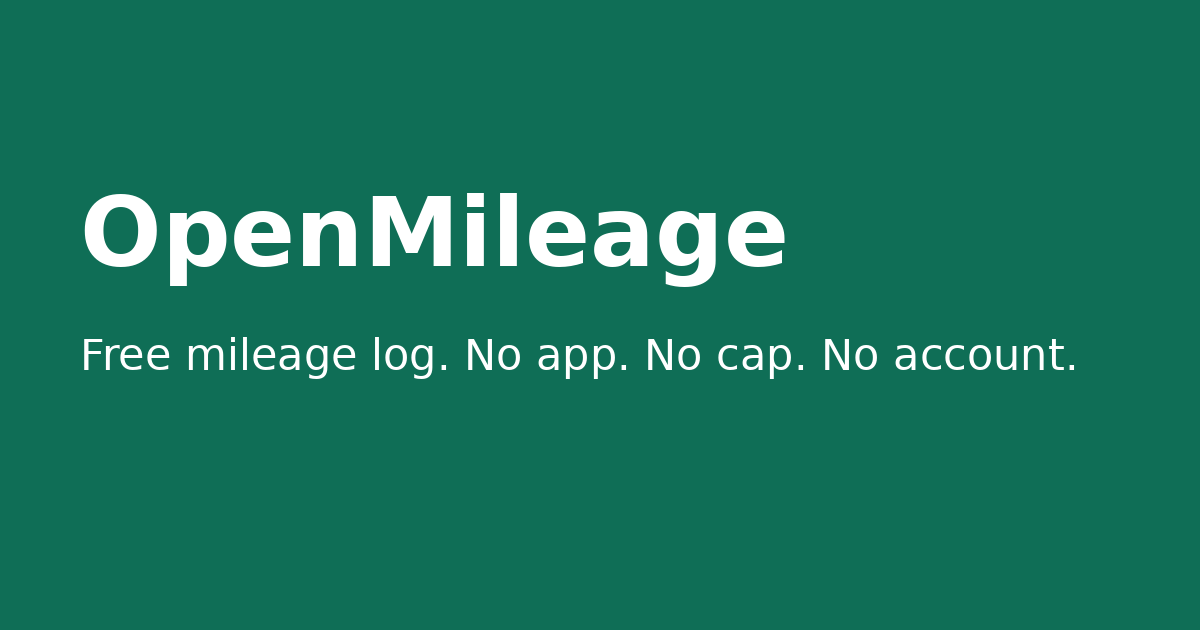
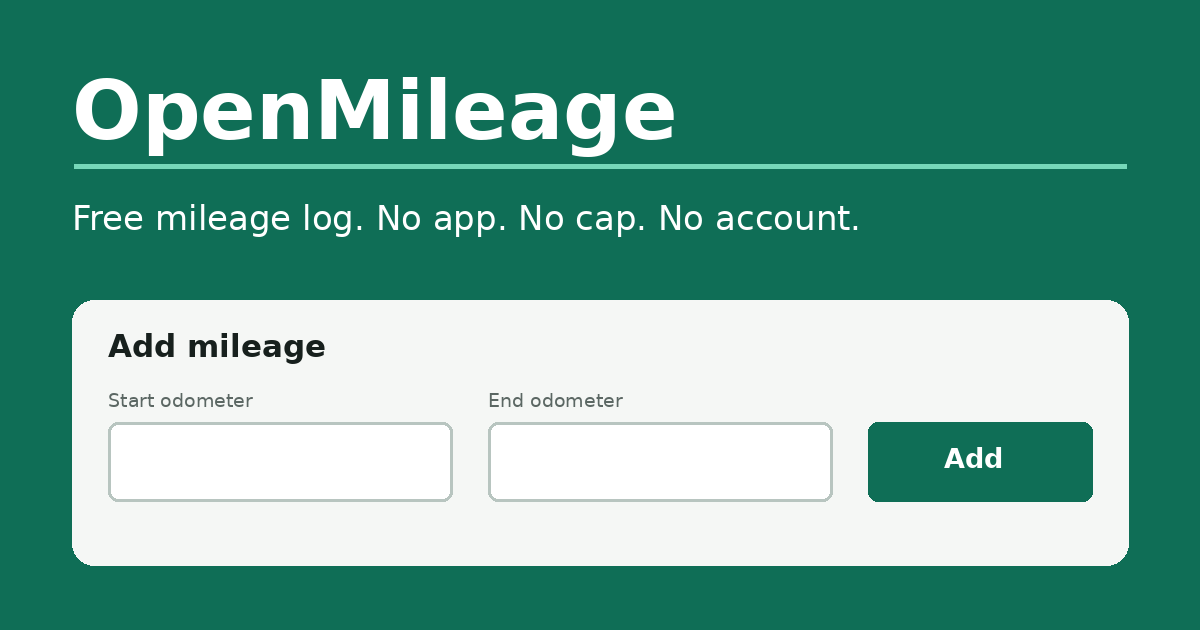
Fix restore, units, CSV tiers, tax-year view, import dates

diff --git a/app.js b/app.js
@@ -1,105 +1,37 @@
 "use strict";
-
-const PRO_URL = "";
-const API = "https://drezar.site/api/x";
-const STORE_KEY = "openmileage-data-v1";
-const defaultRegion = navigator.language.toLowerCase() === "en-gb" ? "UK" : "US";
-const state = loadState();
-let mode = "shift";
-let pendingImport = [];
-
-const $ = id => document.getElementById(id);
-const todayISO = () => new Date().toLocaleDateString("en-CA");
-const number = value => Number.parseFloat(value);
-const tidy = value => Number(value || 0).toLocaleString(undefined, {maximumFractionDigits: 2});
-const escapeHtml = value => String(value ?? "").replace(/[&<>"']/g, c => ({"&":"&amp;","<":"&lt;",">":"&gt;",'"':"&quot;","'":"&#39;"})[c]);
-
-function loadState() {
-  try {
-    const saved = JSON.parse(localStorage.getItem(STORE_KEY));
-    return {region: defaultRegion, units: "miles", vehicle: "My car", entries: [], backup: {}, ...saved};
-  } catch { return {region: defaultRegion, units: "miles", vehicle: "My car", entries: [], backup: {}}; }
-}
-function saveState() { localStorage.setItem(STORE_KEY, JSON.stringify(state)); }
-function taxBounds(date = new Date(), region = state.region) {
-  if (region === "US") { const y = date.getFullYear(); return [new Date(y,0,1), new Date(y,11,31,23,59,59)]; }
-  const y = date.getMonth() > 3 || (date.getMonth() === 3 && date.getDate() >= 6) ? date.getFullYear() : date.getFullYear()-1;
-  return [new Date(y,3,6), new Date(y+1,3,5,23,59,59)];
-}
-function entryDate(entry) { return new Date(entry.date + "T12:00:00"); }
-function inRange(entry, start, end) { const d=entryDate(entry); return d>=start && d<=end; }
-function milesOf(entry) { return state.units === "km" ? entry.distance / 1.609344 : entry.distance; }
-function displayDistance(entry) { return state.units === "km" ? entry.distance : entry.distance; }
-function toMiles(distance) { return state.units === "km" ? distance / 1.609344 : distance; }
-
-function rateFor(entry, region = state.region) {
-  const d = entryDate(entry);
-  if (region === "US") return d >= new Date(2026,0,1) ? .725 : .70;
-  return d >= new Date(2026,3,6) ? .55 : .45;
-}
-function allowance(entries, region = state.region) {
-  if (region === "US") return entries.reduce((sum,e)=>sum + milesOf(e)*rateFor(e,"US"),0);
-  const ordered=[...entries].sort((a,b)=>a.date.localeCompare(b.date)); let total=0, cumulative=0;
-  for (const e of ordered) { const miles=milesOf(e); const first=Math.max(0,Math.min(miles,10000-cumulative)); total += first*rateFor(e,"UK") + (miles-first)*.25; cumulative+=miles; }
-  return total;
-}
-
-function renderAll() {
-  $("region").value=state.region; $("units").value=state.units; $("vehicle").value=state.vehicle;
-  syncPills();
-  document.querySelectorAll(".unit-label").forEach(el=>el.textContent=state.units);
-  const [start,end]=taxBounds(); $("tax-year-label").textContent = state.region === "UK" ? `${start.toLocaleDateString(undefined,{day:"numeric",month:"short",year:"numeric"})} to ${end.toLocaleDateString(undefined,{day:"numeric",month:"short",year:"numeric"})}` : String(start.getFullYear());
-  renderTotals(); renderLog(); renderBackup();
-}
-function renderTotals() {
-  const now=new Date(), dayStart=new Date(now.getFullYear(),now.getMonth(),now.getDate()), weekStart=new Date(dayStart); weekStart.setDate(dayStart.getDate()-((dayStart.getDay()+6)%7));
-  const monthStart=new Date(now.getFullYear(),now.getMonth(),1), [yearStart,yearEnd]=taxBounds(now);
-  const sum=(start,end=now)=>state.entries.filter(e=>inRange(e,start,end)).reduce((s,e)=>s+displayDistance(e),0);
-  $("total-today").textContent=`${tidy(sum(dayStart))} ${state.units}`; $("total-week").textContent=`${tidy(sum(weekStart))} ${state.units}`;
-  $("total-month").textContent=`${tidy(sum(monthStart))} ${state.units}`;
-  const yearly=state.entries.filter(e=>inRange(e,yearStart,yearEnd)); $("total-year").textContent=`${tidy(yearly.reduce((s,e)=>s+displayDistance(e),0))} ${state.units}`;
-  const value=allowance(yearly); $("deduction-value").textContent = state.region === "US" ? value.toLocaleString("en-US",{style:"currency",currency:"USD"}) : value.toLocaleString("en-GB",{style:"currency",currency:"GBP"});
-  if(state.region==="US") { $("rate-line").textContent="IRS business rate: 72.5¢/mile for 2026 entries; 70¢/mile for 2025."; $("rate-source").href="https://www.irs.gov/newsroom/irs-sets-2026-business-standard-mileage-rate-at-725-cents-per-mile-up-25-cents"; }
-  else { $("rate-line").textContent="HMRC rate: 55p/mile for the first 10,000 from 6 Apr 2026, then 25p (previously 45p/25p)."; $("rate-source").href="https://www.gov.uk/government/publications/increase-to-approved-mileage-allowance-payments-amaps-and-self-employed-simplified-mileage-rates/increasing-mileage-rates"; }
-}
-function filteredEntries() { const month=$("month-filter").value; return state.entries.filter(e=>!month||e.date.startsWith(month)).sort((a,b)=>b.date.localeCompare(a.date)||b.created.localeCompare(a.created)); }
-function renderLog() {
-  const rows=filteredEntries(); $("entry-count").textContent=`${rows.length} ${rows.length===1?"entry":"entries"}`; $("empty-log").classList.toggle("hidden",rows.length>0); $("log-body").innerHTML=rows.map(e=>`<tr data-id="${e.id}"><td>${escapeHtml(e.date)}</td><td>${e.start==null?"—":tidy(e.start)}</td><td>${e.end==null?"—":tidy(e.end)}</td><td>${tidy(displayDistance(e))}</td><td>${escapeHtml(e.purpose)}</td><td class="note-cell">${escapeHtml(e.note)}</td><td class="actions"><div class="row-actions"><button data-action="edit">Edit</button><button data-action="delete" class="delete">Delete</button></div></td></tr>`).join("");
-}
-function addEntry(event) {
-  event.preventDefault(); $("entry-error").textContent=""; const date=$("entry-date").value, purpose=$("purpose").value, note=$("note").value.trim(); let start=null,end=null,distance;
-  if(mode==="shift") { start=number($("start-odo").value); end=number($("end-odo").value); if(!Number.isFinite(start)||!Number.isFinite(end)||end<start){$("entry-error").textContent="End odometer must be equal to or greater than start.";return;} distance=end-start; state.lastEnd=end; }
-  else { distance=number($("trip-miles").value); if(!Number.isFinite(distance)||distance<=0){$("entry-error").textContent="Enter a distance greater than zero.";return;} }
-  state.entries.push({id:crypto.randomUUID(),date,start,end,distance,purpose,note,created:new Date().toISOString()}); saveState(); renderAll();
-  $("confirmation").textContent=`Added ${tidy(distance)} ${state.units}.`; $("note").value=""; $("end-odo").value=""; $("trip-miles").value=""; if(state.lastEnd!=null) $("start-odo").value=state.lastEnd; analytics("entry_added");
-}
-function setMode(next) { mode=next; document.querySelectorAll("[data-mode]").forEach(b=>b.classList.toggle("active",b.dataset.mode===mode)); document.querySelectorAll(".shift-field").forEach(e=>e.classList.toggle("hidden",mode!=="shift")); document.querySelectorAll(".trip-field").forEach(e=>e.classList.toggle("hidden",mode!=="trip")); $("start-odo").required=mode==="shift"; $("end-odo").required=mode==="shift"; $("trip-miles").required=mode==="trip"; }
-function editEntry(id) { const e=state.entries.find(x=>x.id===id); if(!e)return; const date=prompt("Date (YYYY-MM-DD)",e.date); if(date===null)return; const distance=number(prompt(`Distance (${state.units})`,e.distance)); if(!/^\d{4}-\d{2}-\d{2}$/.test(date)||!Number.isFinite(distance)||distance<0){alert("Enter a valid date and distance.");return;} e.date=date;e.distance=distance;e.purpose=prompt("Purpose",e.purpose)??e.purpose;e.note=prompt("Note",e.note)??e.note;saveState();renderAll(); }
-
-function csvEscape(v){const s=String(v??"");return /[",\n]/.test(s)?`"${s.replace(/"/g,'""')}"`:s;}
-function exportEntries(){const [s,e]=taxBounds();return state.entries.filter(x=>$("export-period").value==="all"||inRange(x,s,e)).sort((a,b)=>a.date.localeCompare(b.date));}
-function csvText(entries){const head=["Date","Vehicle","Start odometer","End odometer","Miles","Purpose","Note","Rate","Value"];const rows=entries.map(e=>{const miles=milesOf(e),rate=rateFor(e);return[e.date,state.vehicle,e.start??"",e.end??"",miles.toFixed(2),e.purpose,e.note,rate.toFixed(3),(miles*rate).toFixed(2)]});return [head,...rows].map(r=>r.map(csvEscape).join(",")).join("\r\n");}
-function downloadCSV(){const blob=new Blob([csvText(exportEntries())],{type:"text/csv;charset=utf-8"}),a=document.createElement("a");a.href=URL.createObjectURL(blob);a.download="openmileage.csv";a.click();setTimeout(()=>URL.revokeObjectURL(a.href),1000);analytics("export_csv");}
-function parseCSV(text){const rows=[];let row=[],field="",quoted=false;for(let i=0;i<text.length;i++){const c=text[i];if(quoted){if(c==='"'&&text[i+1]==='"'){field+='"';i++;}else if(c==='"')quoted=false;else field+=c;}else if(c==='"')quoted=true;else if(c===','){row.push(field);field="";}else if(c==='\n'){row.push(field.replace(/\r$/, ""));rows.push(row);row=[];field="";}else field+=c;}row.push(field);if(row.some(Boolean))rows.push(row);return rows;}
-function normalizedHeader(h){return h.toLowerCase().replace(/[^a-z0-9]/g,"");}
-function prepareImport(text){const rows=parseCSV(text);if(rows.length<2)return[];const heads=rows[0].map(normalizedHeader);const idx=(...names)=>heads.findIndex(h=>names.some(n=>h.includes(n)));const di=idx("date"),mi=idx("miles","distance","kilometres","kilometers"),si=idx("startodometer","startmileage"),ei=idx("endodometer","endmileage"),pi=idx("purpose","category"),ni=idx("note","description");return rows.slice(1).map(r=>{const start=number(r[si]),end=number(r[ei]);let distance=number(r[mi]);if(!Number.isFinite(distance)&&Number.isFinite(start)&&Number.isFinite(end))distance=end-start;let date=r[di];const parsed=new Date(date);if(!/^\d{4}-\d{2}-\d{2}$/.test(date||"")&&!isNaN(parsed))date=parsed.toLocaleDateString("en-CA");if(!date||!Number.isFinite(distance)||distance<0)return null;return{id:crypto.randomUUID(),date,start:Number.isFinite(start)?start:null,end:Number.isFinite(end)?end:null,distance,purpose:r[pi]||"Other",note:r[ni]||"",created:new Date().toISOString()};}).filter(Boolean);}
-
-async function backup(){const email=$("backup-email").value.trim(),code=$("restore-code").value.trim();if(!email){$("backup-result").textContent="Enter your email.";return;}$("backup-button").disabled=true;try{const payload={email,data:{...state,backup:undefined}};if(code)payload.code=code;const res=await fetch(`${API}/backup`,{method:"POST",headers:{"Content-Type":"application/json"},body:JSON.stringify(payload)}),out=await res.json();if(!res.ok)throw new Error(out.error||"Backup failed");state.backup={email,code:out.code};saveState();renderBackup();$("backup-result").innerHTML=`<strong>Backup saved.</strong><br><span class="restore-code">${escapeHtml(out.code)}</span><br>Save this code. Use it on any device to restore.`;fetch(`${API}/signup`,{method:"POST",headers:{"Content-Type":"application/json"},body:JSON.stringify({email,source:"openmileage",meta:JSON.stringify({region:state.region,units:state.units,entries:state.entries.length,yearly_summary:$("yearly-summary").checked})})}).catch(()=>{});analytics("backup");}catch(e){$("backup-result").textContent=`Could not back up: ${e.message}`;}finally{$("backup-button").disabled=false;}}
-async function restore(){const email=$("backup-email").value.trim(),code=$("restore-code").value.trim();if(!email||!code){$("backup-result").textContent="Enter your email and restore code.";return;}try{const res=await fetch(`${API}/restore`,{method:"POST",headers:{"Content-Type":"application/json"},body:JSON.stringify({email,code})}),out=await res.json();if(!res.ok)throw new Error(out.error||"Restore failed");Object.assign(state,out.data,{backup:{email,code}});saveState();renderAll();$("backup-result").textContent=`Restored ${state.entries.length} entries.`;analytics("restore");}catch(e){$("backup-result").textContent=`Could not restore: ${e.message}`;}}
-function renderBackup(){if(state.backup?.code){$("backup-email").value=state.backup.email;$("restore-code").value=state.backup.code;$("code-label").classList.remove("hidden");$("restore-button").classList.remove("hidden");$("backup-button").textContent="Update backup";}else{$("backup-button").textContent="Back up";}}
-function syncPills(){document.querySelectorAll("[data-select]").forEach(button=>{const selected=$(button.dataset.select).value===button.dataset.value;button.setAttribute("aria-pressed",String(selected));});}
-function setSelectFromPill(button){const select=$(button.dataset.select);select.value=button.dataset.value;select.dispatchEvent(new Event("change",{bubbles:true}));}
-function analytics(name){fetch(`${API}/event`,{method:"POST",headers:{"Content-Type":"application/json"},body:JSON.stringify({name,path:"/openmileage",ref:""}),keepalive:true}).catch(()=>{});}
-
-$("entry-date").value=todayISO(); if(state.lastEnd!=null)$("start-odo").value=state.lastEnd;
-$("entry-form").addEventListener("submit",addEntry);document.querySelectorAll("[data-mode]").forEach(b=>b.addEventListener("click",()=>setMode(b.dataset.mode)));
-document.querySelectorAll("[data-select]").forEach(button=>button.addEventListener("click",()=>setSelectFromPill(button)));
-$("region").addEventListener("change",e=>{state.region=e.target.value;saveState();renderAll();});$("units").addEventListener("change",e=>{state.units=e.target.value;saveState();renderAll();});$("vehicle").addEventListener("change",e=>{state.vehicle=e.target.value.trim()||"My car";saveState();});$("month-filter").addEventListener("change",renderLog);
-$("log-body").addEventListener("click",e=>{const button=e.target.closest("button"),row=e.target.closest("tr");if(!button||!row)return;if(button.dataset.action==="delete"&&confirm("Delete this entry?")){state.entries=state.entries.filter(x=>x.id!==row.dataset.id);saveState();renderAll();}if(button.dataset.action==="edit")editEntry(row.dataset.id);});
-$("download-csv").addEventListener("click",downloadCSV);$("print-report").addEventListener("click",()=>{analytics("print");window.print();});
-$("csv-file").addEventListener("change",async e=>{pendingImport=prepareImport(await e.target.files[0].text());$("import-preview").classList.remove("hidden");$("import-summary").textContent=`Found ${pendingImport.length} valid ${pendingImport.length===1?"entry":"entries"}. Review the count, then import.`;});
-$("confirm-import").addEventListener("click",()=>{state.entries.push(...pendingImport);saveState();renderAll();$("import-status").textContent=`Imported ${pendingImport.length} entries.`;$("import-preview").classList.add("hidden");pendingImport=[];analytics("import_csv");});
-$("backup-button").addEventListener("click",backup);$("restore-button").addEventListener("click",restore);
-if(PRO_URL){$("pro-card").classList.remove("hidden");$("pro-link").href=PRO_URL;$("pro-link").addEventListener("click",()=>analytics("pro_click"));}
-const beacon=new Image();beacon.alt="";beacon.width=1;beacon.height=1;beacon.src=`${API}/px.gif?name=view&path=/openmileage&ref=${encodeURIComponent(document.referrer)}`;document.body.appendChild(beacon);
-renderAll();
+const PRO_URL="",API="https://drezar.site/api/x",STORE_KEY="openmileage-data-v1",KM_PER_MILE=1.609344;
+const $=id=>document.getElementById(id),localISO=d=>`${d.getFullYear()}-${String(d.getMonth()+1).padStart(2,"0")}-${String(d.getDate()).padStart(2,"0")}`,todayISO=()=>localISO(new Date()),defaultRegion=navigator.language.toLowerCase().startsWith("en-gb")||Intl.DateTimeFormat().resolvedOptions().timeZone==="Europe/London"?"UK":"US";
+const escapeHtml=v=>String(v??"").replace(/[&<>"']/g,c=>({"&":"&amp;","<":"&lt;",">":"&gt;",'"':"&quot;","'":"&#39;"})[c]),uid=()=>crypto.randomUUID?crypto.randomUUID():`${Date.now()}-${Math.random()}`,num=v=>Number.parseFloat(String(v??"").trim().replace(",",".")),tidy=v=>Number(v||0).toLocaleString(undefined,{maximumFractionDigits:2});
+let storageError="",mode="shift",pendingImport=[],pendingImportMeta=null,editingId=null,printing=false;
+const state=loadState();
+function loadState(){const fallback={region:defaultRegion,units:"miles",vehicle:"My car",entries:[],backup:{},selectedTaxYear:null};try{const loaded={...fallback,...JSON.parse(localStorage.getItem(STORE_KEY))},assumed=loaded.units==="km"?"km":"mi";let migrated=false;loaded.entries=Array.isArray(loaded.entries)?loaded.entries.map(e=>{if(e.unit==="mi"||e.unit==="km")return e;migrated=true;return{...e,unit:assumed};}):[];if(migrated)localStorage.setItem(STORE_KEY,JSON.stringify(loaded));return loaded;}catch{return fallback;}}
+function saveState(){try{localStorage.setItem(STORE_KEY,JSON.stringify(state));storageError="";return true;}catch{storageError="Could not save (private mode?)";showSaveError();return false;}}
+function showSaveError(){const target=$("entry-error")||$("backup-result");if(target&&storageError)target.textContent=storageError;}
+function entryDate(e){return new Date(`${e.date}T12:00:00`);}function validISODate(v){if(!/^\d{4}-\d{2}-\d{2}$/.test(v||""))return false;const d=entryDate({date:v});return!Number.isNaN(d.valueOf())&&d.toLocaleDateString("en-CA")===v;}
+function milesOf(e){return e.unit==="km"?Number(e.distance)/KM_PER_MILE:Number(e.distance);}function displayDistance(e){return state.units==="km"?milesOf(e)*KM_PER_MILE:milesOf(e);}function displayOdo(v,e){if(v==null)return"—";const miles=e.unit==="km"?Number(v)/KM_PER_MILE:Number(v);return state.units==="km"?miles*KM_PER_MILE:miles;}function inputUnit(){return state.units==="km"?"km":"mi";}function locale(){return state.region==="UK"?"en-GB":"en-US";}function formatDate(v){return new Intl.DateTimeFormat(locale(),{day:"2-digit",month:"2-digit",year:"numeric"}).format(entryDate({date:v}));}
+function taxKeyForDate(d,region=state.region){if(region==="US")return String(d.getFullYear());return String(d.getMonth()>3||(d.getMonth()===3&&d.getDate()>=6)?d.getFullYear():d.getFullYear()-1);}function currentTaxKey(){return taxKeyForDate(new Date());}function taxLabel(key,region=state.region){const y=Number(key);return region==="UK"?`${y}/${String(y+1).slice(-2)}`:String(y);}function taxBoundsForKey(key,region=state.region){const y=Number(key);return region==="US"?[new Date(y,0,1),new Date(y,11,31,23,59,59)]:[new Date(y,3,6),new Date(y+1,3,5,23,59,59)];}function selectedTaxKey(){return state.selectedTaxYear||currentTaxKey();}function inTaxYear(e,key=selectedTaxKey()){return taxKeyForDate(entryDate(e))===String(key);}function taxKeys(){return[...new Set([currentTaxKey(),...state.entries.map(e=>taxKeyForDate(entryDate(e)))])].sort((a,b)=>Number(b)-Number(a));}
+function rateFor(e,region=state.region){const d=entryDate(e);if(region==="US"){const y=d.getFullYear();return y>=2026 ? .725 : y===2025 ? .70 : .67;}return d>=new Date(2026,3,6) ? .55 : .45;}
+function valuedEntries(entries,region=state.region){const used={};return[...entries].sort((a,b)=>a.date.localeCompare(b.date)||(a.created||"").localeCompare(b.created||"")).map(entry=>{const miles=milesOf(entry),key=taxKeyForDate(entryDate(entry),region),rate=rateFor(entry,region);let value;if(region==="US")value=miles*rate;else{const cumulative=used[key]||0,first=Math.max(0,Math.min(miles,10000-cumulative));value=first*rate+(miles-first)*.25;used[key]=cumulative+miles;}return{entry,miles,rate,value};});}function allowance(entries){return valuedEntries(entries).reduce((s,x)=>s+x.value,0);}
+function renderAll(){$("region").value=state.region;$("units").value=state.units;$("vehicle").value=state.vehicle;if(!taxKeys().includes(String(state.selectedTaxYear)))state.selectedTaxYear=currentTaxKey();syncPills();document.querySelectorAll(".unit-label").forEach(e=>e.textContent=state.units);$("distance-heading").textContent=state.units==="km"?"Km":"Miles";const[start,end]=taxBoundsForKey(selectedTaxKey());$("tax-year-label").textContent=state.region==="UK"?`${formatDate(localISO(start))} to ${formatDate(localISO(end))}`:String(start.getFullYear());renderYearOptions();renderTotals();renderLog();renderBackup();showSaveError();}
+function renderYearOptions(){const options=taxKeys().map(k=>`<option value="${k}">${escapeHtml(taxLabel(k))}</option>`).join("");$("tax-year-select").innerHTML=options;$("tax-year-select").value=selectedTaxKey();$("export-period").querySelector('[value="year"]').textContent=`Tax year ${taxLabel(selectedTaxKey())}`;}
+function renderTotals(){const now=new Date(),day=new Date(now.getFullYear(),now.getMonth(),now.getDate()),week=new Date(day),month=new Date(now.getFullYear(),now.getMonth(),1);week.setDate(day.getDate()-((day.getDay()+6)%7));const sum=(start,end=now)=>state.entries.filter(e=>entryDate(e)>=start&&entryDate(e)<=end).reduce((s,e)=>s+displayDistance(e),0),yearly=state.entries.filter(e=>inTaxYear(e));$("total-today").textContent=`${tidy(sum(day))} ${state.units}`;$("total-week").textContent=`${tidy(sum(week))} ${state.units}`;$("total-month").textContent=`${tidy(sum(month))} ${state.units}`;$("total-year-caption").textContent=`Tax year ${taxLabel(selectedTaxKey())}`;$("total-year").textContent=`${tidy(yearly.reduce((s,e)=>s+displayDistance(e),0))} ${state.units}`;$("deduction-value").textContent=allowance(yearly).toLocaleString(locale(),{style:"currency",currency:state.region==="US"?"USD":"GBP"});if(state.region==="US"){$("rate-line").textContent="IRS business rate: 67¢/mile (2024), 70¢ (2025), 72.5¢ (2026).";$("rate-source").href="https://www.irs.gov/tax-professionals/standard-mileage-rates";}else{$("rate-line").textContent="HMRC rate: 55p/mile for the first 10,000 from 6 Apr 2026, then 25p (previously 45p/25p).";$("rate-source").href="https://www.gov.uk/government/publications/increase-to-approved-mileage-allowance-payments-amaps-and-self-employed-simplified-mileage-rates/increasing-mileage-rates";}}
+function filteredEntries(){const m=$("month-filter").value,allForPrint=printing&&$("export-period").value==="all";return state.entries.filter(e=>(allForPrint||inTaxYear(e))&&(allForPrint||!m||e.date.startsWith(m))).sort((a,b)=>b.date.localeCompare(a.date)||(b.created||"").localeCompare(a.created||""));}
+function editRow(e){const shift=e.start!=null&&e.end!=null;return`<tr data-id="${escapeHtml(e.id)}" class="editing"><td><input data-edit="date" type="date" value="${e.date}"></td><td><input data-edit="start" inputmode="decimal" value="${shift?e.start:""}"></td><td><input data-edit="end" inputmode="decimal" value="${shift?e.end:""}"></td><td><input data-edit="distance" inputmode="decimal" value="${e.distance}"></td><td><input data-edit="purpose" value="${escapeHtml(e.purpose)}"></td><td><input data-edit="note" maxlength="180" value="${escapeHtml(e.note)}"></td><td class="actions"><div class="row-actions"><button data-action="save" class="primary">Save</button><button data-action="cancel">Cancel</button></div><p class="row-error error"></p></td></tr>`;}
+function renderLog(){const rows=filteredEntries();$("entry-count").textContent=`${rows.length} ${rows.length===1?"entry":"entries"}`;$("empty-log").classList.toggle("hidden",rows.length>0);$("log-body").innerHTML=rows.map(e=>editingId===e.id?editRow(e):`<tr data-id="${escapeHtml(e.id)}"><td data-label="Date"><strong class="mobile-primary">${formatDate(e.date)}</strong></td><td data-label="Start">${tidy(displayOdo(e.start,e))}</td><td data-label="End">${tidy(displayOdo(e.end,e))}</td><td data-label="${state.units}"><strong class="mobile-primary">${tidy(displayDistance(e))} ${state.units}</strong></td><td data-label="Purpose">${escapeHtml(e.purpose)}</td><td data-label="Note" class="note-cell">${escapeHtml(e.note)||"—"}</td><td class="actions"><div class="row-actions"><button data-action="edit">Edit</button><button data-action="delete" class="delete">Delete</button></div></td></tr>`).join("");}
+function validateEntry({date,start,end,distance,shift}){if(!validISODate(date))return"Enter a valid date.";if(date>todayISO())return"Date cannot be after today.";if(shift){if(!Number.isFinite(start)||!Number.isFinite(end))return"Enter both odometer readings.";if(start>9999999||end>9999999)return"Odometer cannot exceed 9,999,999.";if(end<=start)return"End must be higher than start";distance=end-start;}if(!Number.isFinite(distance)||distance<=0)return"Enter a distance greater than zero.";if((inputUnit()==="km"?distance/KM_PER_MILE:distance)>2000)return"Distance cannot exceed 2,000 miles per entry.";return"";}
+function addEntry(ev){ev.preventDefault();$("entry-error").textContent="";$("confirmation").textContent="";const date=$("entry-date").value,purpose=$("purpose").value,note=$("note").value.trim(),shift=mode==="shift";let start=shift?num($("start-odo").value):null,end=shift?num($("end-odo").value):null,distance=shift?end-start:num($("trip-miles").value);const error=validateEntry({date,start,end,distance,shift});if(error){$("entry-error").textContent=error;return;}if(shift){distance=end-start;state.lastEnd=end;}state.entries.push({id:uid(),date,start,end,distance,unit:inputUnit(),purpose,note,created:new Date().toISOString()});if(!saveState())return;renderAll();$("confirmation").textContent=`Added ${tidy(distance)} ${state.units}.`;$("note").value="";$("end-odo").value="";$("trip-miles").value="";if(state.lastEnd!=null)$("start-odo").value=state.lastEnd;analytics("entry_added");}
+function saveEdit(row,id){const e=state.entries.find(x=>x.id===id),get=n=>row.querySelector(`[data-edit="${n}"]`).value,date=get("date"),start=num(get("start")),end=num(get("end")),entered=num(get("distance")),shift=Number.isFinite(start)||Number.isFinite(end),distance=shift?end-start:entered,error=validateEntry({date,start,end,distance,shift});if(error){row.querySelector(".row-error").textContent=error;return;}Object.assign(e,{date,start:shift?start:null,end:shift?end:null,distance,unit:inputUnit(),purpose:get("purpose").trim()||"Other",note:get("note").trim()});editingId=null;saveState();renderAll();}
+function setMode(next){mode=next;document.querySelectorAll("[data-mode]").forEach(b=>b.classList.toggle("active",b.dataset.mode===mode));document.querySelectorAll(".shift-field").forEach(e=>e.classList.toggle("hidden",mode!=="shift"));document.querySelectorAll(".trip-field").forEach(e=>e.classList.toggle("hidden",mode!=="trip"));$("start-odo").required=mode==="shift";$("end-odo").required=mode==="shift";$("trip-miles").required=mode==="trip";}
+function csvEscape(v){const s=String(v??"");return/[",\n]/.test(s)?`"${s.replace(/"/g,'""')}"`:s;}function exportEntries(){return state.entries.filter(e=>$("export-period").value==="all"||inTaxYear(e)).sort((a,b)=>a.date.localeCompare(b.date)||(a.created||"").localeCompare(b.created||""));}function csvText(entries){const valued=valuedEntries(entries),values=new Map(valued.map(x=>[x.entry,x])),rounded=new Map(valued.map(x=>[x.entry,Math.round(x.value*100)]));for(const key of new Set(entries.map(e=>taxKeyForDate(entryDate(e))))){const group=valued.filter(x=>taxKeyForDate(entryDate(x.entry))===key),target=Math.round(group.reduce((s,x)=>s+x.value,0)*100),actual=group.reduce((s,x)=>s+rounded.get(x.entry),0);if(group.length)rounded.set(group[group.length-1].entry,rounded.get(group[group.length-1].entry)+target-actual);}const head=["Date","Vehicle","Start odometer","End odometer","Distance","Unit","Miles","Purpose","Note","Rate","Value"],rows=entries.map(e=>{const x=values.get(e);return[e.date,state.vehicle,e.start??"",e.end??"",Number(e.distance).toFixed(2),e.unit,x.miles.toFixed(2),e.purpose,e.note,x.rate.toFixed(3),(rounded.get(e)/100).toFixed(2)]});return[head,...rows].map(r=>r.map(csvEscape).join(",")).join("\r\n");}function downloadCSV(){const blob=new Blob([csvText(exportEntries())],{type:"text/csv;charset=utf-8"}),a=document.createElement("a");a.href=URL.createObjectURL(blob);a.download=`openmileage-${$("export-period").value==="all"?"all":taxLabel(selectedTaxKey()).replace("/","-")}.csv`;a.click();setTimeout(()=>URL.revokeObjectURL(a.href),1000);analytics("export_csv");}
+function parseCSV(text){const rows=[];let row=[],field="",quoted=false;for(let i=0;i<text.length;i++){const c=text[i];if(quoted){if(c==='"'&&text[i+1]==='"'){field+='"';i++;}else if(c==='"')quoted=false;else field+=c;}else if(c==='"')quoted=true;else if(c===','){row.push(field);field="";}else if(c==='\n'){row.push(field.replace(/\r$/, ""));rows.push(row);row=[];field="";}else field+=c;}row.push(field);if(row.some(Boolean))rows.push(row);return rows;}function normalizedHeader(h){return h.toLowerCase().replace(/[^a-z0-9]/g,"");}
+function detectDateOrder(values){let day=false,month=false;for(const raw of values){const m=String(raw).trim().match(/^(\d{1,2})[\/.](\d{1,2})[\/.](\d{2}|\d{4})$/);if(!m)continue;if(Number(m[1])>12)day=true;if(Number(m[2])>12)month=true;}return day&&!month?"DD/MM":month&&!day?"MM/DD":state.region==="UK"?"DD/MM":"MM/DD";}function parseImportDate(raw,order){const v=String(raw||"").trim();if(validISODate(v))return v;const m=v.match(/^(\d{1,2})[\/.](\d{1,2})[\/.](\d{2}|\d{4})$/);if(!m)return null;let a=Number(m[1]),b=Number(m[2]),y=Number(m[3]);if(y<100)y+=2000;const day=order==="DD/MM"?a:b,month=order==="DD/MM"?b:a,iso=`${y}-${String(month).padStart(2,"0")}-${String(day).padStart(2,"0")}`;return validISODate(iso)?iso:null;}function duplicateKey(e){return[e.date,String(e.start??""),String(e.end??""),Number(e.distance).toFixed(6)].join("|");}
+function prepareImport(text){const rows=parseCSV(text);if(rows.length<2)return{entries:[],skipped:["No data rows"],duplicates:0,dateOrder:state.region==="UK"?"DD/MM":"MM/DD",unitSource:`current setting (${inputUnit()})`};const raw=rows[0].map(h=>h.trim()),heads=raw.map(normalizedHeader),idx=(...names)=>heads.findIndex(h=>names.some(n=>h.includes(n))),di=idx("date"),mi=idx("miles","distance","kilometres","kilometers"),si=idx("startodometer","startmileage"),ei=idx("endodometer","endmileage"),pi=idx("purpose","category"),ni=idx("note","description"),dateOrder=detectDateOrder(rows.slice(1).map(r=>r[di]));let unit=inputUnit(),unitSource=`current setting (${unit})`;const dh=(raw[mi]||"").toLowerCase();if(/\b(km|kilomet)/.test(dh)){unit="km";unitSource="CSV header (km)";}else if(/\b(mi|mile)/.test(dh)){unit="mi";unitSource="CSV header (mi)";}const seen=new Set(state.entries.map(duplicateKey)),entries=[],skipped=[];let duplicates=0;rows.slice(1).forEach((r,i)=>{const date=parseImportDate(r[di],dateOrder);if(!date){skipped.push(`Row ${i+2}: unparseable date “${r[di]||""}”`);return;}let start=num(r[si]),end=num(r[ei]),distance=num(r[mi]);if(!Number.isFinite(distance)&&Number.isFinite(start)&&Number.isFinite(end))distance=end-start;if(!Number.isFinite(distance)||distance<=0){skipped.push(`Row ${i+2}: invalid distance`);return;}start=Number.isFinite(start)?start:null;end=Number.isFinite(end)?end:null;const e={id:uid(),date,start,end,distance,unit,purpose:r[pi]||"Other",note:r[ni]||"",created:new Date().toISOString()},key=duplicateKey(e);if(seen.has(key)){duplicates++;return;}seen.add(key);entries.push(e);});return{entries,skipped,duplicates,dateOrder,unitSource};}
+function apiError(error,status){if(status===429||error==="rate_limited")return"Too many tries, wait a minute";if(status===404||error==="not_found")return"No backup found for that email and code";return error||"The backup server returned an error";}
+async function backup(){$("backup-result").textContent="";const email=$("backup-email").value.trim(),code=$("restore-code").value.trim();if(!email){$("backup-result").textContent="Enter your email.";return;}$("backup-button").disabled=true;try{const payload={email,data:{...state,backup:undefined}};if(code)payload.code=code;const res=await fetch(`${API}/backup`,{method:"POST",headers:{"Content-Type":"application/json"},body:JSON.stringify(payload)}),out=await res.json();if(!res.ok)throw new Error(apiError(out.error,res.status));state.backup={email,code:out.code};saveState();renderBackup();$("backup-result").innerHTML=`<strong>Backup saved.</strong><br><span class="restore-code">${escapeHtml(out.code)}</span><br>Save this code. Use it on any device to restore.`;if($("yearly-summary").checked)fetch(`${API}/signup`,{method:"POST",headers:{"Content-Type":"application/json"},body:JSON.stringify({email,source:"openmileage",meta:JSON.stringify({region:state.region,units:state.units,entries:state.entries.length,yearly_summary:true})})}).catch(()=>{});analytics("backup");}catch(e){$("backup-result").textContent=e instanceof TypeError?"Could not reach the backup server":e.message;}finally{$("backup-button").disabled=false;}}
+async function restore(){$("backup-result").textContent="";const email=$("backup-email").value.trim(),code=$("restore-code").value.trim();if(!email||!code){$("backup-result").textContent="Enter your email and restore code.";return;}try{const res=await fetch(`${API}/restore`,{method:"POST",headers:{"Content-Type":"application/json"},body:JSON.stringify({email,code})}),out=await res.json();if(!res.ok)throw new Error(apiError(out.error,res.status));const remote={...out.data};remote.entries=Array.isArray(remote.entries)?remote.entries.map(e=>({...e,id:e.id||uid(),unit:e.unit||(remote.units==="km"?"km":"mi")})):[];let merged=remote.entries;if(state.entries.length){const merge=confirm("Local entries already exist. Choose OK to Merge them with the backup, or Cancel to Replace them with the backup.");if(merge){const byId=new Map();[...remote.entries,...state.entries].forEach(entry=>{const e={...entry,id:entry.id||uid()};byId.set(e.id,e);});merged=[...byId.values()];}}Object.assign(state,remote,{entries:merged,backup:{email,code},selectedTaxYear:null});saveState();renderAll();$("backup-result").textContent=`Restored ${state.entries.length} entries.`;analytics("restore");}catch(e){$("backup-result").textContent=e instanceof TypeError?"Could not reach the backup server":e.message;}}
+function renderBackup(){if(state.backup?.code){$("backup-email").value=state.backup.email;$("restore-code").value=state.backup.code;$("backup-button").textContent="Update backup";}else $("backup-button").textContent="Back up";}function syncPills(){document.querySelectorAll("[data-select]").forEach(b=>b.setAttribute("aria-pressed",String($(b.dataset.select).value===b.dataset.value)));}function setSelectFromPill(b){const s=$(b.dataset.select);s.value=b.dataset.value;s.dispatchEvent(new Event("change",{bubbles:true}));}function analytics(name){fetch(`${API}/event`,{method:"POST",headers:{"Content-Type":"application/json"},body:JSON.stringify({name,path:"/openmileage",ref:""}),keepalive:true}).catch(()=>{});}function setPrintHeader(){document.body.dataset.printTitle=`${state.vehicle} — ${$("export-period").value==="all"?"All entries":`Tax year ${taxLabel(selectedTaxKey())}`} — generated ${formatDate(todayISO())}`;}
+$("entry-date").value=todayISO();if(state.lastEnd!=null)$("start-odo").value=state.lastEnd;$("entry-form").addEventListener("submit",addEntry);document.querySelectorAll("[data-mode]").forEach(b=>b.addEventListener("click",()=>setMode(b.dataset.mode)));document.querySelectorAll("[data-select]").forEach(b=>b.addEventListener("click",()=>setSelectFromPill(b)));
+$("region").addEventListener("change",e=>{state.region=e.target.value;state.selectedTaxYear=null;saveState();renderAll();});$("units").addEventListener("change",e=>{state.units=e.target.value;saveState();renderAll();});$("vehicle").addEventListener("change",e=>{state.vehicle=e.target.value.trim()||"My car";saveState();});$("tax-year-select").addEventListener("change",e=>{state.selectedTaxYear=e.target.value;$("month-filter").value="";saveState();renderAll();});$("month-filter").addEventListener("change",renderLog);
+$("log-body").addEventListener("click",e=>{const button=e.target.closest("button"),row=e.target.closest("tr");if(!button||!row)return;const id=row.dataset.id;if(button.dataset.action==="delete"&&confirm("Delete this entry?")){state.entries=state.entries.filter(x=>x.id!==id);saveState();renderAll();}if(button.dataset.action==="edit"){editingId=id;renderLog();}if(button.dataset.action==="cancel"){editingId=null;renderLog();}if(button.dataset.action==="save")saveEdit(row,id);});
+$("download-csv").addEventListener("click",downloadCSV);$("print-report").addEventListener("click",()=>{printing=true;renderLog();setPrintHeader();analytics("print");window.print();});window.addEventListener("afterprint",()=>{printing=false;renderLog();});$("csv-file").addEventListener("change",async e=>{if(!e.target.files[0])return;pendingImportMeta=prepareImport(await e.target.files[0].text());pendingImport=pendingImportMeta.entries;$("import-preview").classList.remove("hidden");const skipped=pendingImportMeta.skipped.length?` Skipped ${pendingImportMeta.skipped.length} invalid row${pendingImportMeta.skipped.length===1?"":"s"}: ${pendingImportMeta.skipped.join("; ")}.`:"";$("import-summary").textContent=`Found ${pendingImport.length} valid ${pendingImport.length===1?"entry":"entries"}. Dates interpreted as ${pendingImportMeta.dateOrder}. Distance unit: ${pendingImportMeta.unitSource}. ${pendingImportMeta.duplicates} duplicate ${pendingImportMeta.duplicates===1?"row":"rows"} skipped.${skipped}`;$("confirm-import").disabled=!pendingImport.length;});$("confirm-import").addEventListener("click",()=>{state.entries.push(...pendingImport);saveState();renderAll();$("import-status").textContent=`Imported ${pendingImport.length} entries; skipped ${pendingImportMeta.duplicates} duplicates and ${pendingImportMeta.skipped.length} invalid rows.`;$("import-preview").classList.add("hidden");pendingImport=[];analytics("import_csv");});
+$("backup-button").addEventListener("click",backup);$("restore-button").addEventListener("click",restore);if(PRO_URL){$("pro-card").classList.remove("hidden");$("pro-link").href=PRO_URL;$("pro-link").addEventListener("click",()=>analytics("pro_click"));}const beacon=new Image();beacon.alt="";beacon.width=1;beacon.height=1;beacon.src=`${API}/px.gif?name=view&path=/openmileage&ref=${encodeURIComponent(document.referrer)}`;document.body.appendChild(beacon);renderAll();

diff --git a/index.html b/index.html
@@ -67,9 +67,9 @@
     </section>
 
     <section class="card totals-card" aria-labelledby="totals-title">
-      <h2 id="totals-title">Totals</h2>
+      <div class="section-head"><h2 id="totals-title">Totals</h2><label class="year-picker">Tax year<select id="tax-year-select"></select></label></div>
       <div class="primary-totals">
-        <div><span>This tax year</span><strong id="total-year">0</strong></div>
+        <div><span id="total-year-caption">This tax year</span><strong id="total-year">0</strong></div>
         <div><span>Tax-year allowance</span><strong id="deduction-value">$0.00</strong></div>
       </div>
       <div class="totals-grid">
@@ -85,7 +85,7 @@
     <section class="card" aria-labelledby="log-title">
       <div class="section-head"><h2 id="log-title">Mileage log</h2><span id="entry-count" class="count">0 entries</span></div>
       <label class="filter">Filter by month<input id="month-filter" type="month"></label>
-      <div class="table-scroll"><table><thead><tr><th>Date</th><th>Start</th><th>End</th><th>Miles</th><th>Purpose</th><th>Note</th><th class="actions">Actions</th></tr></thead><tbody id="log-body"></tbody></table></div>
+      <div class="table-scroll"><table><thead><tr><th>Date</th><th>Start</th><th>End</th><th id="distance-heading">Miles</th><th>Purpose</th><th>Note</th><th class="actions">Actions</th></tr></thead><tbody id="log-body"></tbody></table></div>
       <p id="empty-log" class="empty">No mileage yet. Add your first shift above.</p>
     </section>
 
@@ -101,11 +101,11 @@
 
     <section class="card" aria-labelledby="backup-title">
       <h2 id="backup-title">Back up to the cloud</h2>
-      <p>Email plus a code. No password. We only email you if you ask for the yearly summary.</p>
+      <p>Email plus a code. No password. Your email is stored with your backup so you can restore it. We only send you anything if you tick the box.</p>
       <label>Email<input id="backup-email" type="email" autocomplete="email" placeholder="you@example.com"></label>
       <label class="check"><input id="yearly-summary" type="checkbox"> Email me a yearly summary</label>
-      <label id="code-label" class="hidden">Restore code<input id="restore-code" type="text" maxlength="10" autocomplete="off"></label>
-      <div class="button-row"><button id="backup-button" type="button" class="primary">Back up</button><button id="restore-button" type="button" class="hidden">Restore</button></div>
+      <label id="code-label">Restore code<input id="restore-code" type="text" maxlength="10" autocomplete="off"></label>
+      <div class="button-row"><button id="backup-button" type="button" class="primary">Back up</button><button id="restore-button" type="button">Restore</button></div>
       <div id="backup-result" class="backup-result" role="status"></div>
     </section>
 
@@ -120,7 +120,7 @@
       <details><summary>Who made this?</summary><p>Derezar Master, London. Feedback: <a href="https://github.com/dman3629/openmileage/issues">GitHub issues</a>.</p></details>
     </section>
   </main>
-  <footer><div class="wrap"><a href="https://github.com/dman3629/openmileage">GitHub repository</a><p>No cookies; an anonymous page-view count and anonymous button counts, nothing personal unless you back up.</p></div></footer>
+  <footer><div class="wrap"><a href="https://github.com/dman3629/openmileage">GitHub repository</a><p>No cookies; an anonymous page-view count and anonymous button counts, nothing personal unless you back up.</p><small id="build-id">build 2026-11-06c</small></div></footer>
   <script src="app.js"></script>
 </body>
 </html>

diff --git a/style.css b/style.css
@@ -63,6 +63,8 @@ button:disabled { cursor: not-allowed; opacity: .56; }
 .totals-grid div + div { padding-left: var(--s2); border-left: 1px solid var(--line); }
 .totals-grid strong { margin-top: 4px; font-size: 1.25rem; font-variant-numeric: tabular-nums; }
 .filter { max-width: 216px; margin-bottom: var(--s2); }
+.year-picker { min-width: 132px; }
+.year-picker select { min-height: 44px; padding-block: 4px; }
 .table-scroll { max-width: 100%; overflow-x: auto; border: 1px solid var(--line); border-radius: 8px; }
 table { width: 100%; border-collapse: collapse; font-size: .875rem; white-space: nowrap; }
 th, td { padding: var(--s1) var(--s2); border-bottom: 1px solid var(--line); text-align: left; }
@@ -107,6 +109,21 @@ footer { padding: var(--s3) 0 var(--s5); border-top: 1px solid var(--line); colo
   .totals-grid { grid-template-columns: 1fr; }
   .totals-grid div + div { padding-left: 0; border-top: 1px solid var(--line); border-left: 0; }
   .button-row > * { flex: 1; }
+  .table-scroll { overflow: visible; border: 0; }
+  table, tbody { display: block; }
+  thead { display: none; }
+  tbody tr { display: grid; grid-template-columns: 1fr 1fr; gap: 6px var(--s2); margin-bottom: var(--s2); padding: var(--s2); border: 1px solid var(--line); border-radius: 8px; }
+  tbody td { display: block; min-width: 0; padding: 0; border: 0; white-space: normal; overflow-wrap: anywhere; }
+  tbody td::before { display: block; color: var(--muted); content: attr(data-label); font-size: .75rem; font-weight: 700; text-transform: capitalize; }
+  tbody td:first-child, tbody td:nth-child(4), tbody td:nth-child(5), tbody td:nth-child(6), tbody td.actions { grid-column: 1 / -1; }
+  tbody td:first-child { display: inline; grid-column: 1; }
+  tbody td:nth-child(4) { display: inline; grid-column: 2; text-align: right; }
+  tbody td:first-child::before, tbody td:nth-child(4)::before, tbody td.actions::before { display: none; }
+  .mobile-primary { font-size: 1rem; }
+  .row-actions button { flex: 1; }
+  .editing { grid-template-columns: 1fr !important; }
+  .editing td { grid-column: 1 / -1 !important; }
+  .editing td::before { display: none; }
 }
 @media (prefers-color-scheme: dark) {
   :root { --bg: #111815; --card: #18211e; --text: #edf5f1; --muted: #abb9b3; --line: #35423d; --accent: #65d9b5; --accent-hover: #79e4c2; --danger: #ff8585; }
@@ -129,5 +146,6 @@ footer { padding: var(--s3) 0 var(--s5); border-top: 1px solid var(--line); colo
   table { font-size: 9pt; white-space: normal; }
   th, td { border: 1px solid #bbb; }
   main::before { display: block; margin-bottom: var(--s1); content: "OpenMileage mileage report"; font-size: 20pt; font-weight: 800; }
+  body::before { display: block; margin-bottom: var(--s2); content: attr(data-print-title); font-size: 11pt; }
   main::after { display: block; margin-top: 40px; content: "Signature: ______________________________     Date: ______________"; font-size: 11pt; }
 }

diff --git a/scripts/make_og.py b/scripts/make_og.py
@@ -17,12 +17,22 @@ def font(name, size):
 
 image = Image.new("RGB", (1200, 630), "#0f6e56")
 draw = ImageDraw.Draw(image)
-draw.text((80, 176), "OpenMileage", fill="white", font=font("DejaVuSans-Bold.ttf", 96))
+draw.text((72, 62), "OpenMileage", fill="white", font=font("DejaVuSans-Bold.ttf", 82))
+draw.line((74, 166, 1126, 166), fill="#76d7b9", width=5)
 draw.text(
-    (80, 330),
+    (72, 198),
     "Free mileage log. No app. No cap. No account.",
     fill="white",
-    font=font("DejaVuSans.ttf", 43),
+    font=font("DejaVuSans.ttf", 34),
 )
+# A simple entry-card mockup, drawn rather than screenshot-dependent.
+draw.rounded_rectangle((72, 300, 1128, 565), radius=22, fill="#f5f7f5")
+draw.text((108, 328), "Add mileage", fill="#17201d", font=font("DejaVuSans-Bold.ttf", 31))
+draw.text((108, 389), "Start odometer", fill="#5b6763", font=font("DejaVuSans.ttf", 19))
+draw.text((488, 389), "End odometer", fill="#5b6763", font=font("DejaVuSans.ttf", 19))
+draw.rounded_rectangle((108, 422, 452, 501), radius=10, outline="#b8c5c0", width=3, fill="white")
+draw.rounded_rectangle((488, 422, 832, 501), radius=10, outline="#b8c5c0", width=3, fill="white")
+draw.rounded_rectangle((868, 422, 1092, 501), radius=10, fill="#0f6e56")
+draw.text((944, 442), "Add", fill="white", font=font("DejaVuSans-Bold.ttf", 27))
 OUTPUT.parent.mkdir(parents=True, exist_ok=True)
 image.save(OUTPUT, optimize=True)
